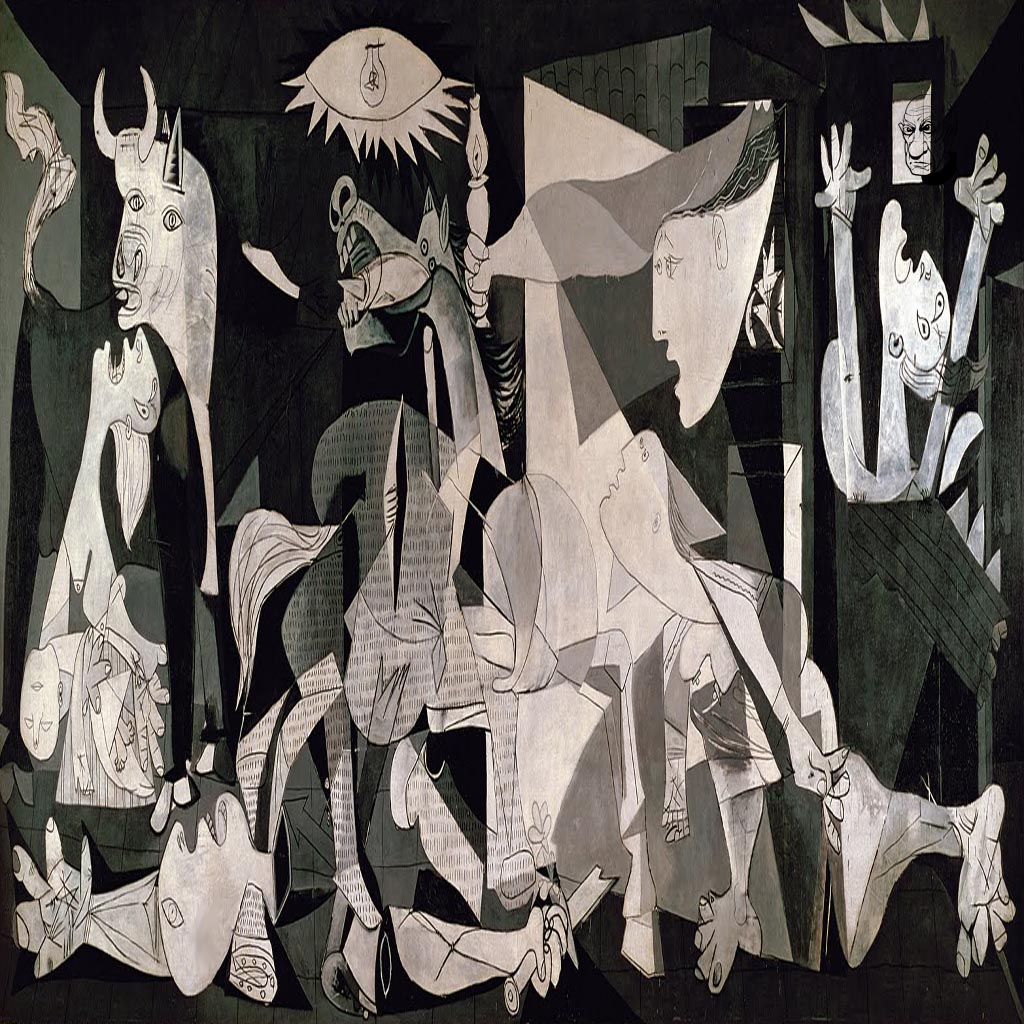
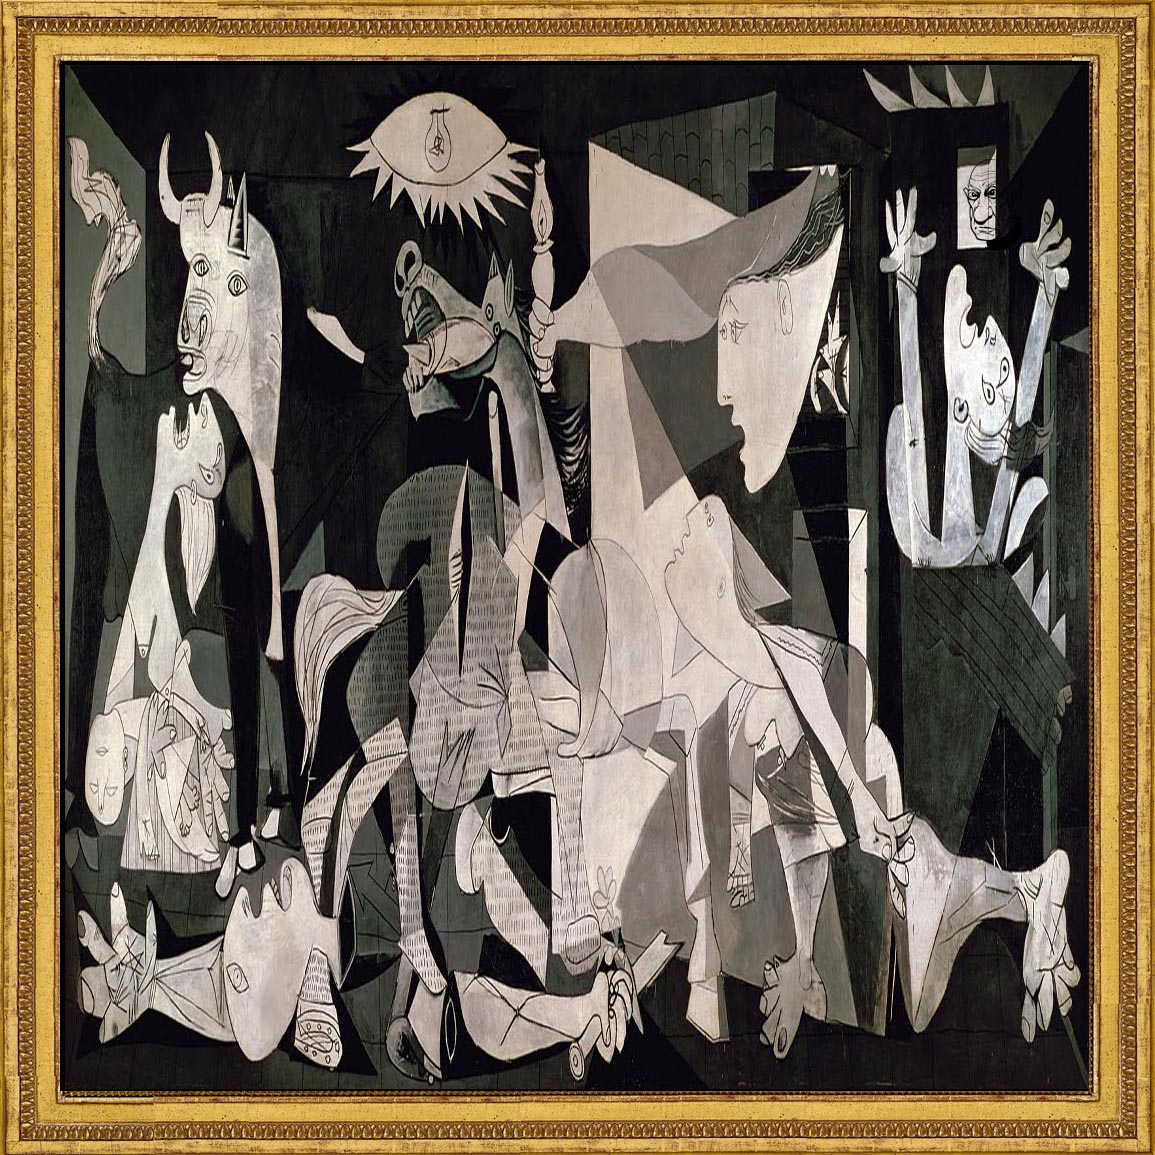
Update paintings

diff --git a/MetroDetective/MainPage.xaml b/MetroDetective/MainPage.xaml
@@ -48,7 +48,7 @@
 
     <Grid DataContext="{StaticResource vm}">
     	<Grid.Background>
-    		<ImageBrush ImageSource="Assets/paintings/BG.png" Stretch="UniformToFill"/>
+    		<ImageBrush ImageSource="Assets/paintings/BG.jpg" Stretch="UniformToFill"/>
     	</Grid.Background>
     	<VisualStateManager.VisualStateGroups>
     		<VisualStateGroup x:Name="VisualStateGroup">
@@ -151,12 +151,30 @@
             <Grid>
                 <StackPanel Orientation="Horizontal" HorizontalAlignment="Left">
                     <Button x:Name="menuButton"  Style="{StaticResource  AllAppsAppBarButtonStyle}" AutomationProperties.Name="Menu" Click="btn_back_Click"/>
-                    <StackPanel x:Name="CreateGamePanel">
-                        <Button Style="{StaticResource AddAppBarButtonStyle}" Click="btn_addSpot_Click" />
-                        <Button Style="{StaticResource ContactInfoAppBarButtonStyle}" Click="save_allSpot_Click" />
-                        <Button Style="{StaticResource NextAppBarButtonStyle}" Click="btn_next_page_Click" />
-                        <TextBlock x:Name="tb_XY" HorizontalAlignment="Left" Height="19" Margin="41,10,0,0" Grid.Row="1" TextWrapping="Wrap" Text="spot" VerticalAlignment="Top" Width="127"/>
-                    </StackPanel>
+                    
+                    <Grid  x:Name="CreateGamePanel">
+                        <Grid.RowDefinitions>                   
+                            <RowDefinition />
+                        </Grid.RowDefinitions>
+                        <Grid.ColumnDefinitions>
+                            <ColumnDefinition/>
+                            <ColumnDefinition/>
+                            <ColumnDefinition/>
+                            <ColumnDefinition/>
+                        </Grid.ColumnDefinitions>
+                        <Grid Row="0" Grid.Column="0">
+                            <Button Style="{StaticResource AddAppBarButtonStyle}" Click="btn_addSpot_Click" />
+                        </Grid>
+                        <Grid Row="0" Grid.Column="1">
+                            <Button Style="{StaticResource ContactInfoAppBarButtonStyle}" Click="save_allSpot_Click" />
+                        </Grid>
+                            <Grid Row="0" Grid.Column="2">
+                                <Button Style="{StaticResource NextAppBarButtonStyle}" Click="btn_next_page_Click" />
+                        </Grid>
+                        <Grid Row="0" Grid.Column="3">
+                                    <TextBlock x:Name="tb_XY" HorizontalAlignment="Left" Height="19" Margin="41,10,0,0" Grid.Row="1" TextWrapping="Wrap" Text="spot" VerticalAlignment="Top" Width="127"/>
+                        </Grid>
+                    </Grid>
                 </StackPanel>
                 
                 <StackPanel Orientation="Horizontal" HorizontalAlignment="Center">

diff --git a/MetroDetective/MainPage.xaml.cs b/MetroDetective/MainPage.xaml.cs
@@ -38,7 +38,7 @@ namespace MetroDetective
         public CanvasPageViewModel _viewModel;
         private MediaElement Music;
         private bool IsMusicPlaying = true;
-        private bool CreateGameMode = true;
+        private bool CreateGameMode = false;
         public MainPage()
         {
             this.InitializeComponent();
@@ -53,19 +53,27 @@ namespace MetroDetective
         {
             // Register for the viewstatechanged event
             // Register for the window resize event
+
+
+            Window.Current.SizeChanged += WindowSizeChanged;     
+            
             if (CreateGameMode)
             {
-                CreateGamePanel.Visibility=Visibility.Visible;
+                _viewModel = new CanvasPageViewModel();
+                CreateGamePanel.Visibility = Visibility.Visible;
+                _viewModel.GameSpotsList = new GameHotSpots();
+                _viewModel.CurrentPaintingSpots = new PaintingHotSpots();
             }
             else
             {
+                _viewModel = new CanvasPageViewModel(true);
                 CreateGamePanel.Visibility = Visibility.Collapsed;
+                LoadBackGroundMusic();
+               
             }
 
-            Window.Current.SizeChanged += WindowSizeChanged;     
-            _viewModel = new CanvasPageViewModel();
-            LoadBackGroundMusic();
             GoToState("MainMenuState");
+
         }
 
         private void ShowHideAppBarButtons(bool isHide)
@@ -120,7 +128,14 @@ namespace MetroDetective
                     _viewModel.HintsLeft = 3;
                     ShowHideAppBarButtons(true);
                     AutomationProperties.SetName(hintButton, "Hints" + " (" + _viewModel.HintsLeft + " Left)");
-                    _viewModel = new CanvasPageViewModel();
+                    if (CreateGameMode)
+                    {
+                        _viewModel = new CanvasPageViewModel();                       
+                    }
+                    else
+                    {
+                        _viewModel = new CanvasPageViewModel(true);
+                    }
                     bottomAppBar.IsOpen = false;
                     bottomAppBar.IsSticky = false;
                     ChangePaintings(_viewModel.PaintingNumbers[0]);

diff --git a/MetroDetective/ViewModel/CanvasPageViewModel.cs b/MetroDetective/ViewModel/CanvasPageViewModel.cs
@@ -20,7 +20,7 @@ namespace MetroDetective.ViewModel
         {
             ResetPage();
 
-            PaintingNumbers = new List<int> { 1, 2, 3};
+            PaintingNumbers = new List<int> { 1, 2, 3,4,5,6};
 
             CurrentPaintingNumber = PaintingNumbers[0];
             LevelFinished = false;
@@ -39,10 +39,13 @@ namespace MetroDetective.ViewModel
             ScreenWidthNeg = bounds.Width*-1;
             CanvasHeight = ScreenHeight * 80 /100;
             CanvasWidth = ScreenWidth * 48 / 100;
-            HintsLeft = 3;
-            LoadGameSpotsAsync();
+            HintsLeft = 3;            
         }
 
+        public CanvasPageViewModel(bool play) : this()
+        {
+            LoadGameSpotsAsync();
+        }
         public void ResetPage()
         {
             TagsLeft = new List<Image>();
